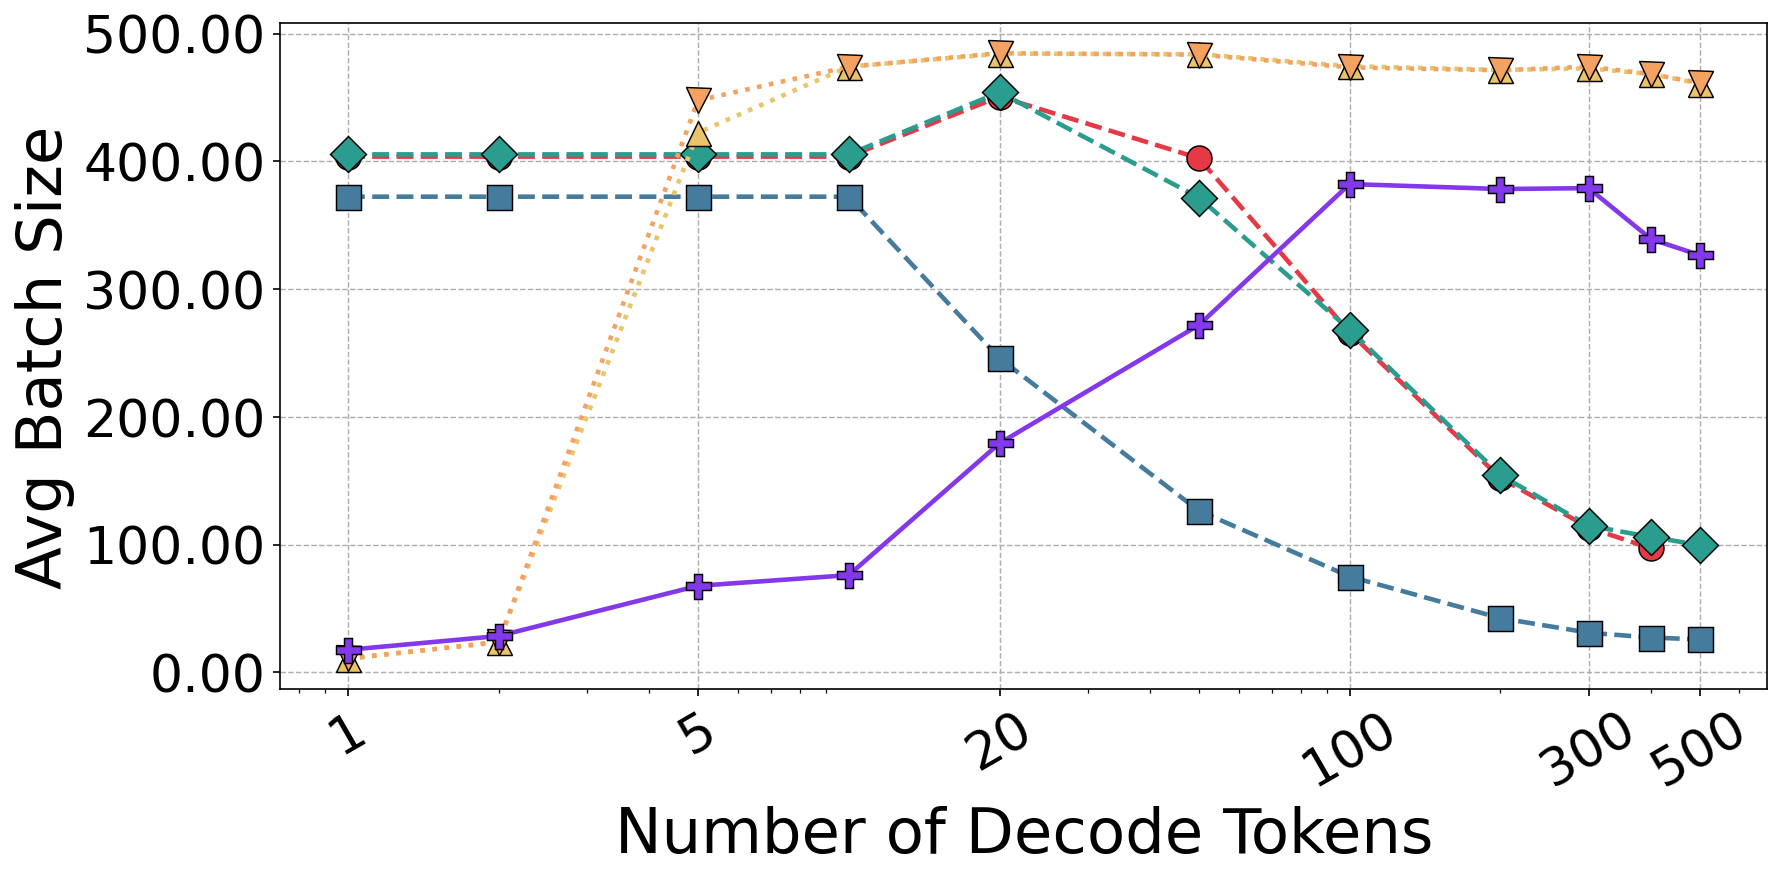
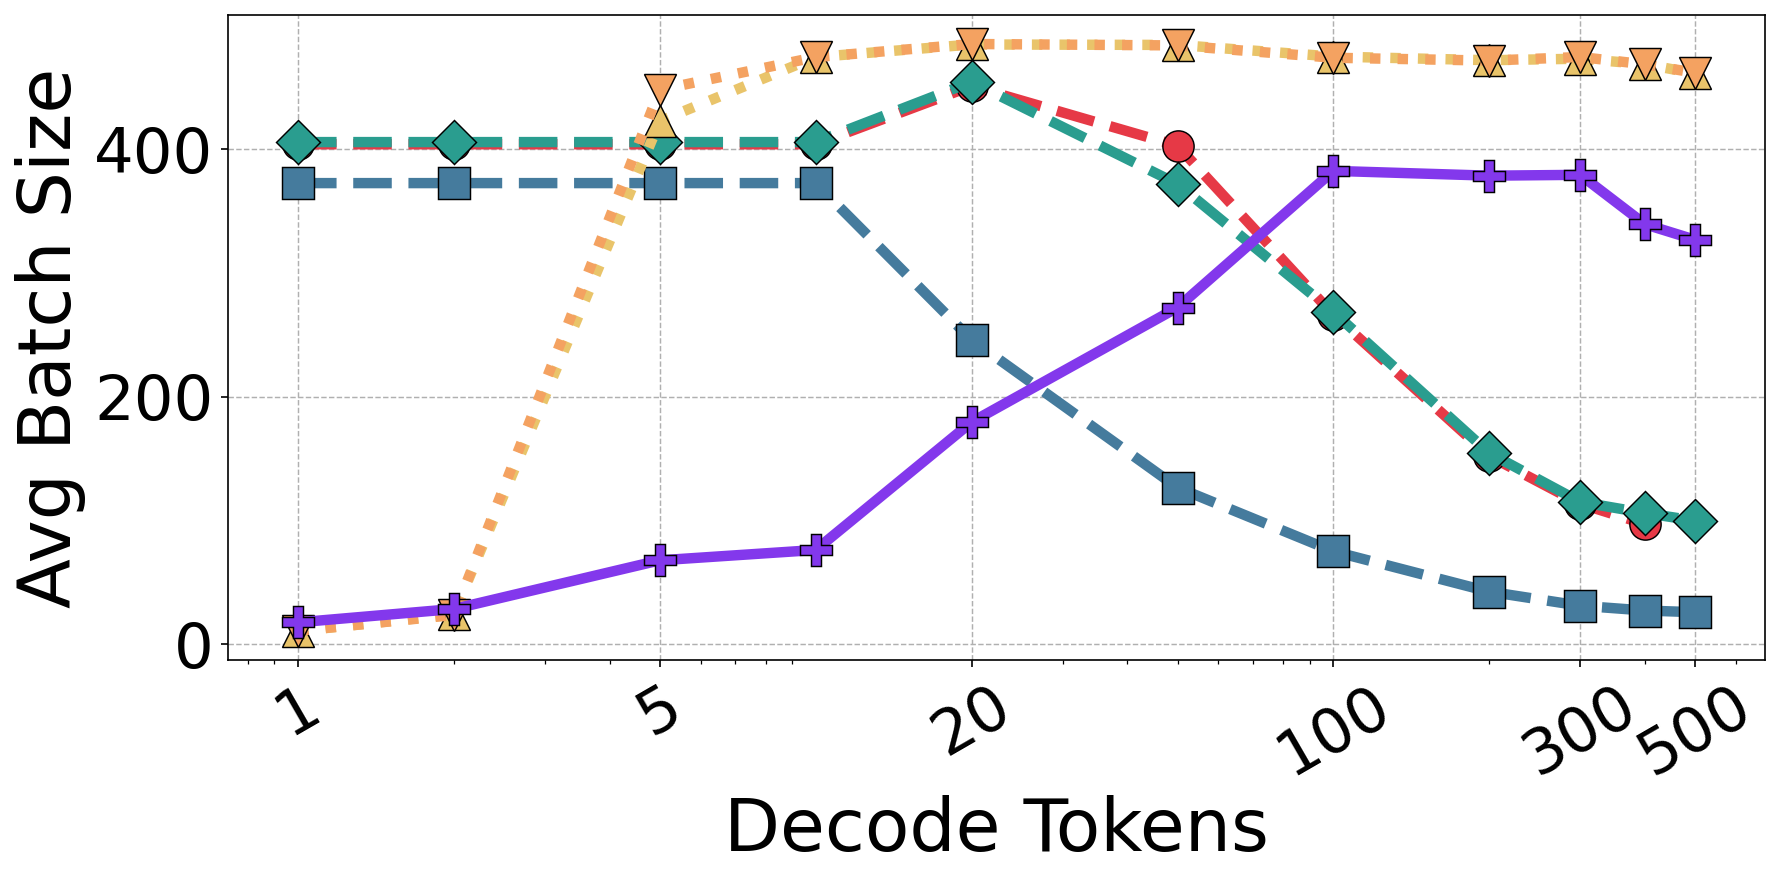
cpu overhead

diff --git a/code/vllm/decode_tokens_logs/plot.py b/code/vllm/decode_tokens_logs/plot.py
@@ -205,8 +205,8 @@ def make_plot(metric_key, ylabel, title, outpath):
             ys,
             marker=marker,
             linestyle=linestyle,
-            linewidth=2.2,
-            markersize=12,
+            linewidth=5,
+            markersize=15,
             markeredgecolor="black",
             markeredgewidth=0.7,
             color=color,
@@ -214,19 +214,20 @@ def make_plot(metric_key, ylabel, title, outpath):
         )
 
     ax.set_xscale("log")
-    ax.set_xlabel("Number of Decode Tokens", fontsize=30)
-    ax.set_ylabel(ylabel, fontsize=30)
+    ax.set_xlabel("Decode Tokens", fontsize=35)
+    ax.set_ylabel(ylabel, fontsize=35)
 
     # Use thinned ticks to avoid clutter
     ax.set_xticks(display_ticks)
     ax.set_xticklabels(display_ticks, rotation=30)
     ax.get_xaxis().set_major_formatter(ticker.ScalarFormatter())
 
-    ax.tick_params(axis="both", labelsize=25)
-    ax.yaxis.set_major_formatter(ticker.FormatStrFormatter('%.2f'))
+    ax.tick_params(axis="both", labelsize=30)
+    # convert 1000 to 1k
+    ax.yaxis.set_major_formatter(ticker.FuncFormatter(lambda x, _: f"{x/1000:.1f}K" if x >= 1000 else f"{x:.0f}"))
 
     if metric_key == "throughput":
-        ax.legend(fontsize=24, framealpha=0.3, ncol=1)
+        ax.legend(fontsize=25, framealpha=0, ncol=1)
 
     ax.grid(True, linewidth=0.7, linestyle="--")
 
@@ -250,7 +251,7 @@ os.makedirs(OUT, exist_ok=True)
 
 make_plot(
     "throughput",
-    "Throughput (toks/s)",
+    "TP (toks/s)",
     "Throughput vs Decode Tokens",
     os.path.join(OUT, "throughput_vs_tok.png")
 )
